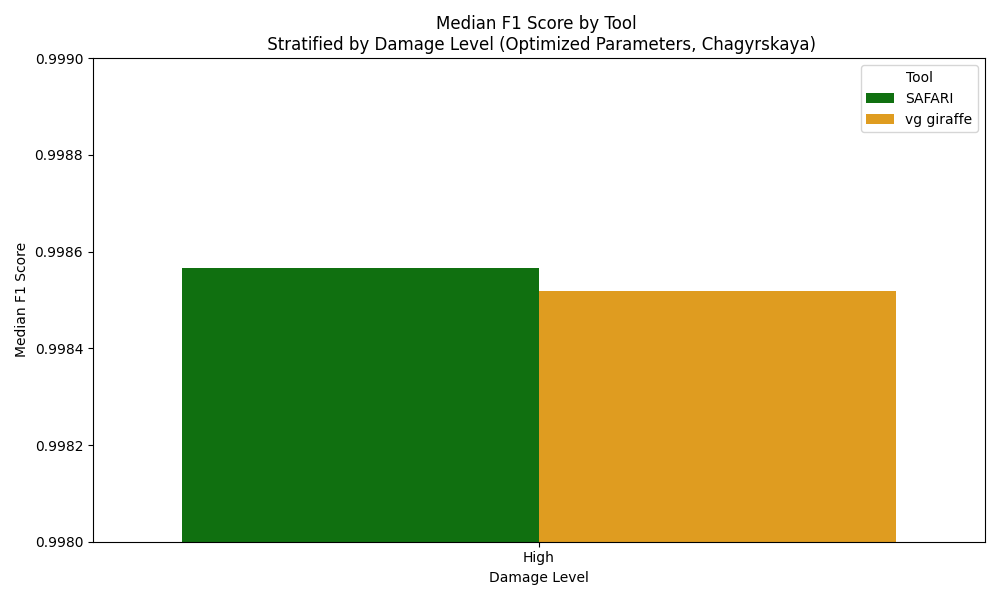
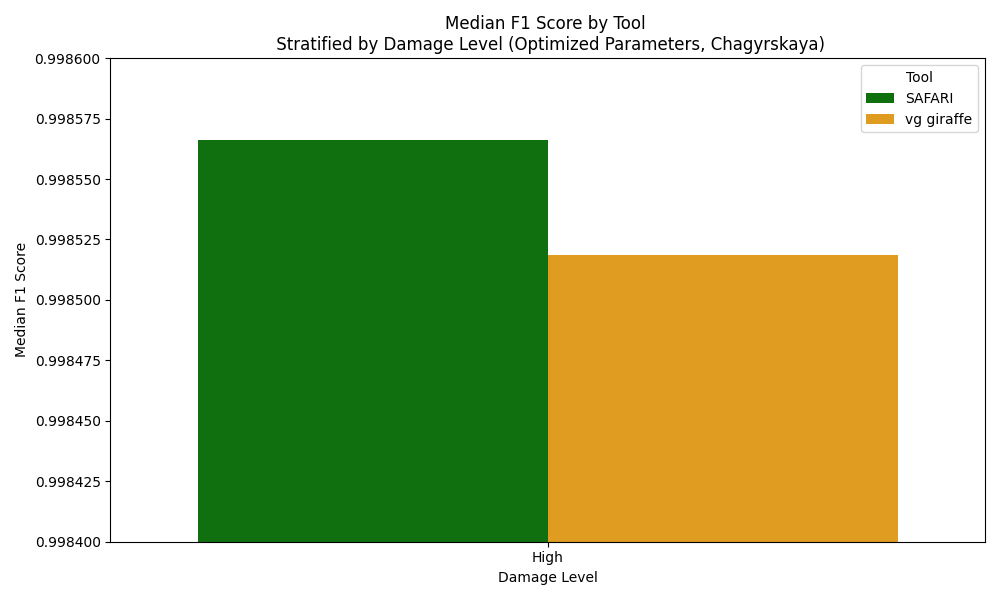
Update

diff --git a/linear_experiment/human_mito/stat_results/plot_F1_optimized_pangenome.py b/linear_experiment/human_mito/stat_results/plot_F1_optimized_pangenome.py
@@ -47,7 +47,7 @@ def main():
     plt.title('Median F1 Score by Tool \n Stratified by Damage Level (Optimized Parameters, ' + sys.argv[3] + ")")
     plt.xlabel('Damage Level')
     plt.ylabel('Median F1 Score')
-    plt.ylim(0.998, 0.999)
+    plt.ylim(0.9984, 0.9986)
     plt.legend(title='Tool')
     plt.tight_layout()
 
